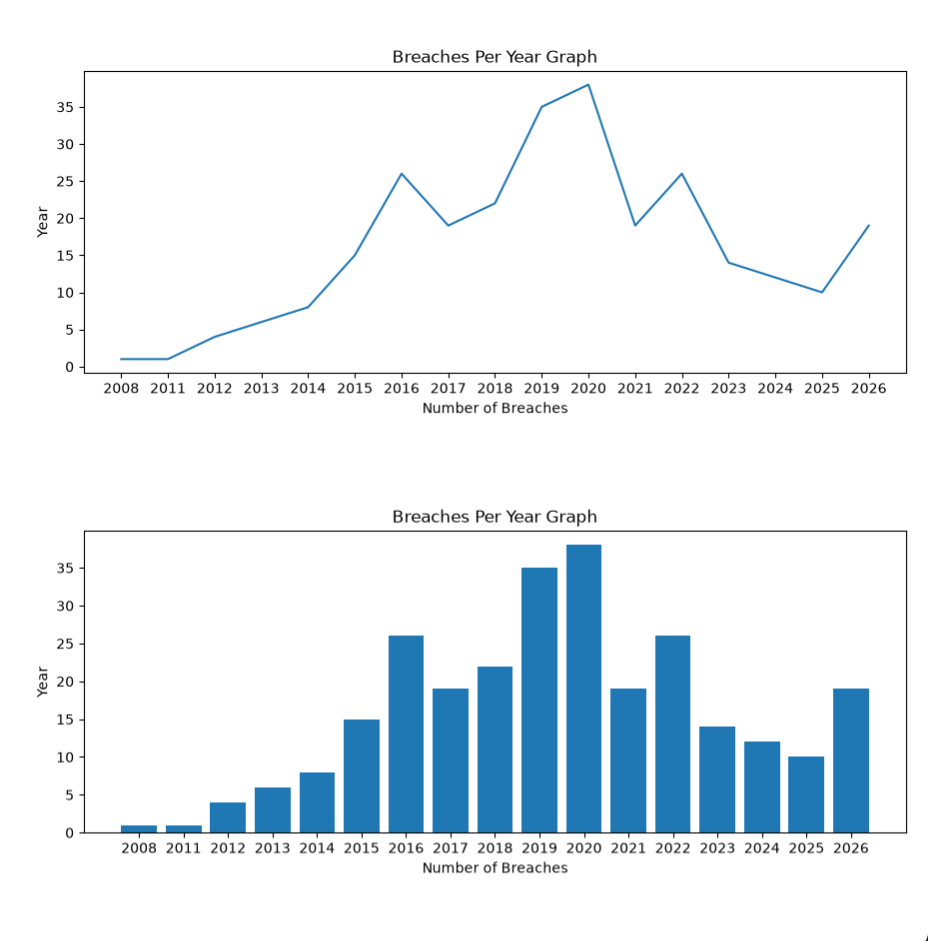
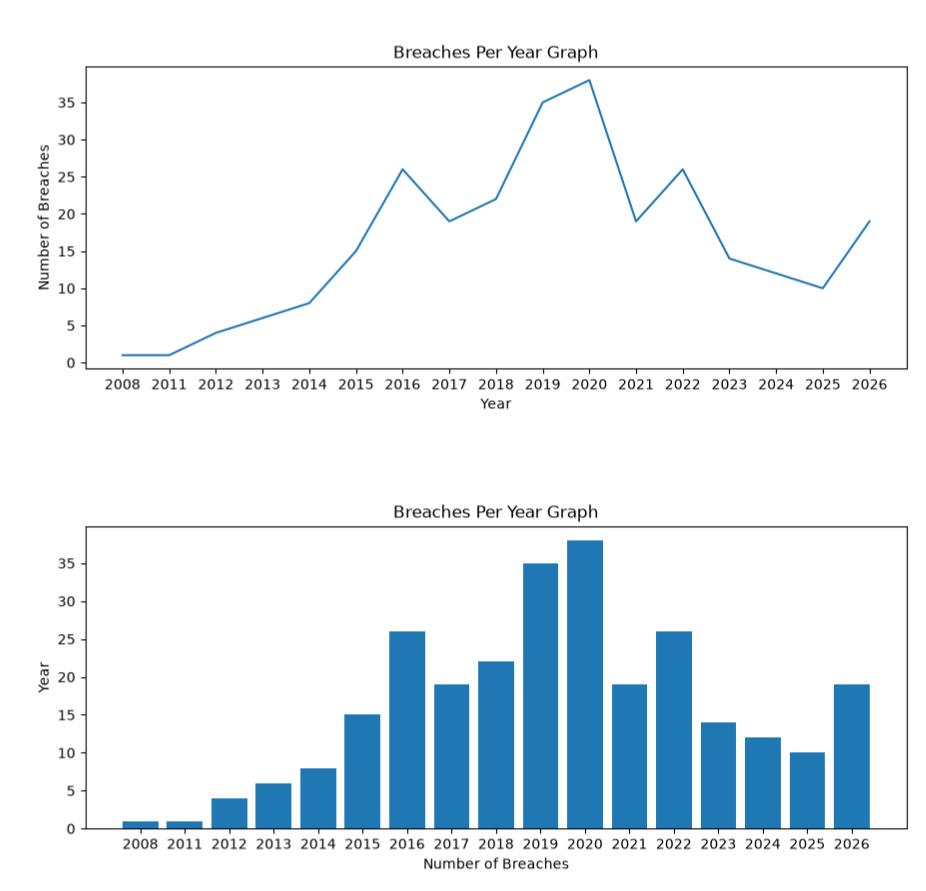
Add files via upload

diff --git a/breachcheck.py b/breachcheck.py
@@ -72,8 +72,8 @@ def graphcreation():
 
 
     fig, axes = plt.subplots(2, 1)
-    axes[0].set_xlabel("Number of Breaches")
-    axes[0].set_ylabel("Year")
+    axes[0].set_xlabel("Year")
+    axes[0].set_ylabel("Number of Breaches")
     axes[0].set_title("Breaches Per Year Graph")
 
     axes[1].set_xlabel("Number of Breaches")
